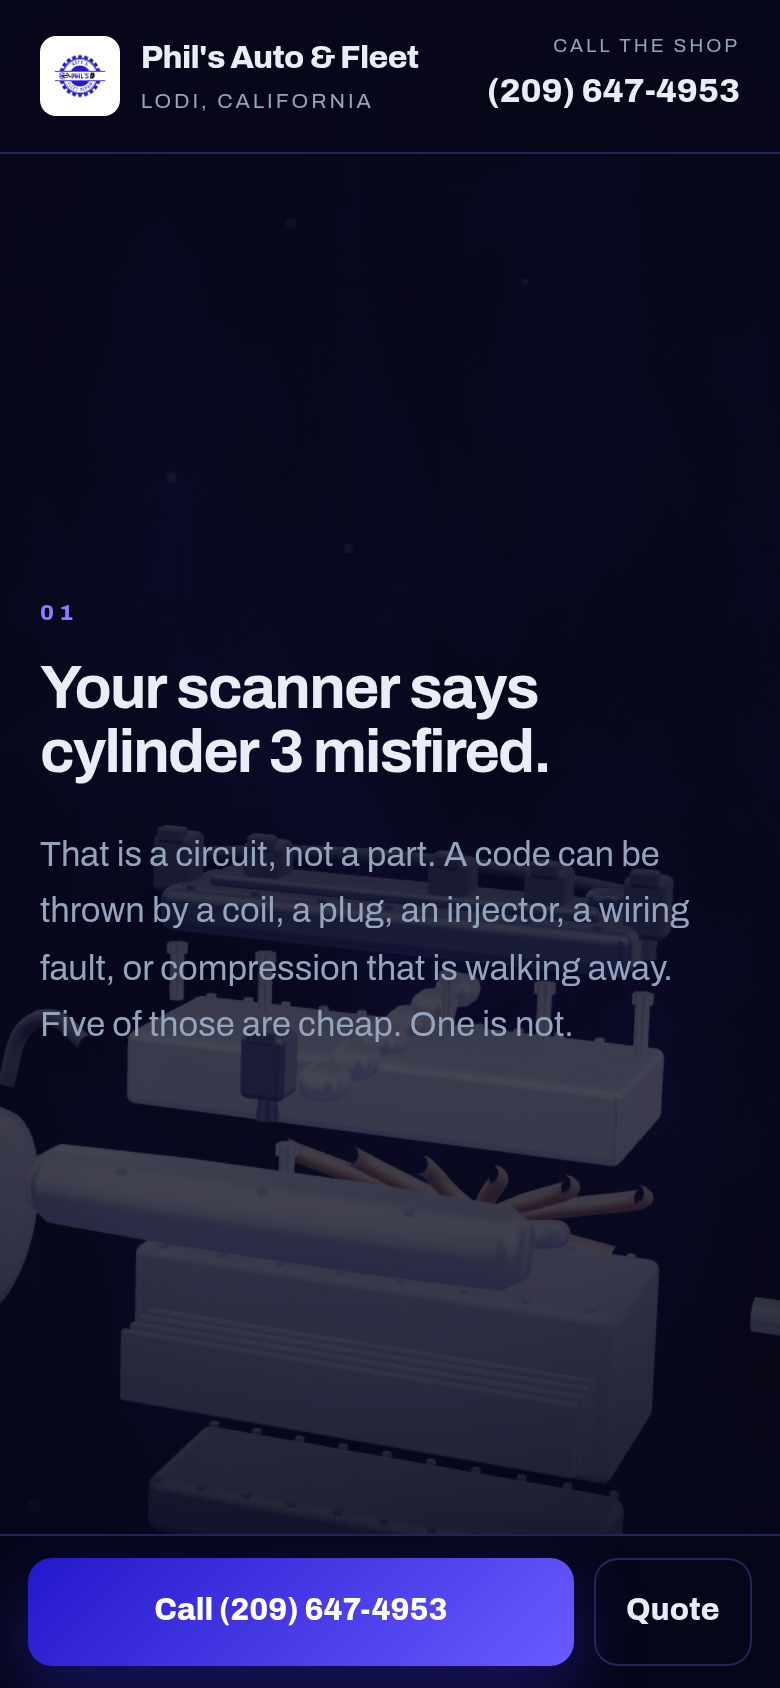
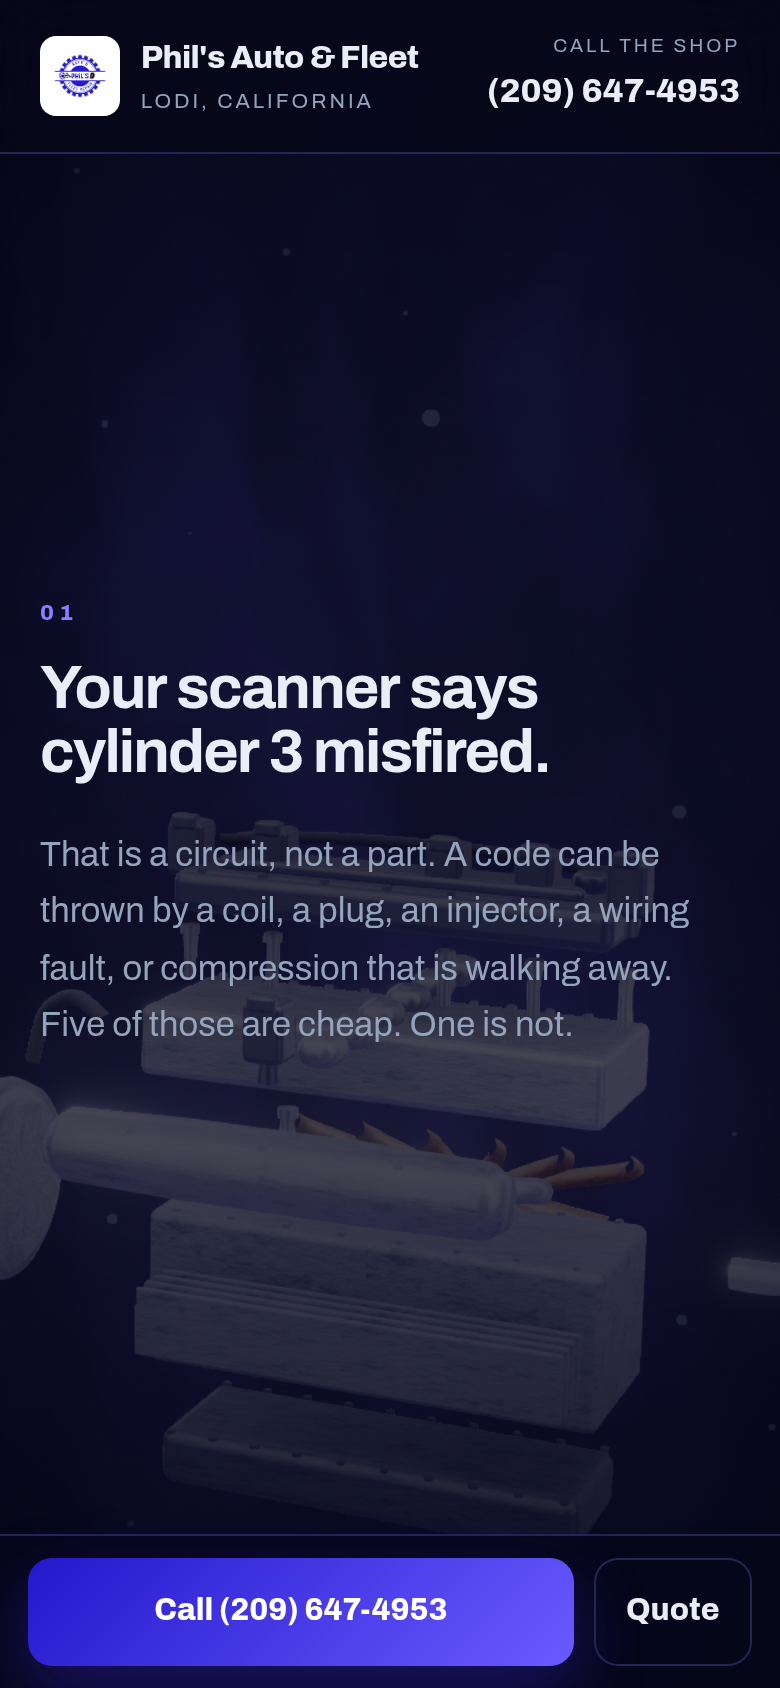
Add the surface and lighting work that was actually missing
The geometry was fixed last round; what still made it read as CG was that
every surface was mathematically perfect and nothing darkened where two
parts met. Three additions, in order of how much each one matters:

- Ambient occlusion (N8AO). The big one. Without it a bolt head sits ON a
  flange rather than IN it, and no part feels connected to any other. It is
  the single effect that makes geometry read as solid — more than polygon
  count, more than texture.
- A normal map, derived at load time with a Sobel pass over a generated
  height field. Casting grain and fine machining marks, so a face between
  two chamfers stops reflecting the environment as one clean sheet.
- A grime map. Oil film and deposits weighted to the low end, so most of the
  surface stays clean and the dirt reads as history rather than as a dirty
  texture. A spotless casting is a render; a shop engine has a past.

Plus clearcoat on painted parts, SMAA so the chamfers stop stair-stepping,
bloom keyed high enough that only real highlights blow, and ACES rather than
AgX after AgX lifted the blacks and turned the whole frame milky.

None of this is free — the scene chunk went from 316 KB to 470 KB gzipped —
but all of it is behind the tier gate, so the cost falls only on a device
that opted into WebGL in the first place. The path a real visitor takes is
unchanged: 1.9 KB critical, mobile Lighthouse 100/100/100/100, LCP 1.4s,
CLS 0.

Claude-Session: https://claude.ai/code/session_013nwrNSzsjaGSfBchDuUbs8

diff --git a/sites/phils-auto/src/scene/parts.js b/sites/phils-auto/src/scene/parts.js
@@ -99,6 +99,131 @@ export function mergeAll(geometries) {
   return out;
 }
 
+/* ------------------------------------------------------------------ *
+ * Generated surface maps.
+ *
+ * These are the difference between "a 3D shape" and "a thing made of
+ * metal", and their absence is the single biggest reason code-built
+ * geometry looks synthetic. A real asset pipeline ships authored albedo,
+ * normal, roughness and AO maps at 2K each; there is no artist and no
+ * download budget here, so the height field is generated and the normal
+ * map derived from it with a Sobel pass at load time.
+ * ------------------------------------------------------------------ */
+
+/** Shared value-noise height field: casting grain + machining lines. */
+function heightField(size, opts) {
+  const { lines = 0, lineFreq = 90, grain = 1 } = opts ?? {};
+  const rand = (x, y, s) => {
+    const n = Math.sin(x * 127.1 + y * 311.7 + s * 74.7) * 43758.5453;
+    return n - Math.floor(n);
+  };
+  const smooth = (x, y, freq, seed) => {
+    const fx = (x / size) * freq, fy = (y / size) * freq;
+    const ix = Math.floor(fx), iy = Math.floor(fy);
+    const tx = fx - ix, ty = fy - iy;
+    const sx = tx * tx * (3 - 2 * tx), sy = ty * ty * (3 - 2 * ty);
+    const a = rand(ix, iy, seed), b = rand(ix + 1, iy, seed);
+    const c = rand(ix, iy + 1, seed), d = rand(ix + 1, iy + 1, seed);
+    const top = a + (b - a) * sx;
+    return top + ((c + (d - c) * sx) - top) * sy;
+  };
+
+  const h = new Float32Array(size * size);
+  for (let y = 0; y < size; y++) {
+    for (let x = 0; x < size; x++) {
+      let v =
+        smooth(x, y, 96, 1) * 0.3 +
+        smooth(x, y, 26, 2) * 0.42 +
+        smooth(x, y, 7, 3) * 0.28;
+      v *= grain;
+      // Fine concentric machining marks, the giveaway that a face was cut.
+      if (lines) v += Math.sin((x / size) * lineFreq * Math.PI * 2) * 0.5 * lines;
+      h[y * size + x] = v;
+    }
+  }
+  return h;
+}
+
+function toTexture(canvas, repeat) {
+  const tex = new THREE.CanvasTexture(canvas);
+  tex.wrapS = tex.wrapT = THREE.RepeatWrapping;
+  tex.repeat.set(repeat, repeat);
+  tex.anisotropy = 4;
+  return tex;
+}
+
+/**
+ * Normal map, derived from the height field with a Sobel operator.
+ *
+ * Without this every face between two chamfers is geometrically perfect and
+ * reflects the environment as one clean sheet, which is exactly what reads as
+ * "computer graphics" rather than "cast aluminium".
+ */
+let normalTexture = null;
+export function castNormal() {
+  if (normalTexture) return normalTexture;
+  const size = 256, strength = 2.6;
+  const h = heightField(size, { lines: 0.06, lineFreq: 60 });
+  const at = (x, y) => h[((y + size) % size) * size + ((x + size) % size)];
+
+  const c = document.createElement("canvas");
+  c.width = c.height = size;
+  const ctx = c.getContext("2d");
+  const img = ctx.createImageData(size, size);
+  for (let y = 0; y < size; y++) {
+    for (let x = 0; x < size; x++) {
+      const dx =
+        (at(x - 1, y - 1) + 2 * at(x - 1, y) + at(x - 1, y + 1)) -
+        (at(x + 1, y - 1) + 2 * at(x + 1, y) + at(x + 1, y + 1));
+      const dy =
+        (at(x - 1, y - 1) + 2 * at(x, y - 1) + at(x + 1, y - 1)) -
+        (at(x - 1, y + 1) + 2 * at(x, y + 1) + at(x + 1, y + 1));
+      let nx = dx * strength, ny = dy * strength, nz = 1;
+      const len = Math.hypot(nx, ny, nz);
+      nx /= len; ny /= len; nz /= len;
+      const i = (y * size + x) * 4;
+      img.data[i] = (nx * 0.5 + 0.5) * 255;
+      img.data[i + 1] = (ny * 0.5 + 0.5) * 255;
+      img.data[i + 2] = (nz * 0.5 + 0.5) * 255;
+      img.data[i + 3] = 255;
+    }
+  }
+  ctx.putImageData(img, 0, 0);
+  normalTexture = toTexture(c, 9);
+  return normalTexture;
+}
+
+/**
+ * Grime: oil film, heat staining and worn paint, as a multiply over the base
+ * colour. A spotless casting is a render; a shop engine has a history.
+ */
+let grimeTexture = null;
+export function grime() {
+  if (grimeTexture) return grimeTexture;
+  const size = 256;
+  const h = heightField(size, { grain: 1 });
+  const c = document.createElement("canvas");
+  c.width = c.height = size;
+  const ctx = c.getContext("2d");
+  const img = ctx.createImageData(size, size);
+  for (let i = 0; i < size * size; i++) {
+    const v = h[i];
+    // Blotchy darkening, weighted to the low end so most of the surface is
+    // clean and the dirt reads as deposits rather than as a dirty texture.
+    const dark = Math.pow(Math.max(0, 1 - v * 1.25), 2.2);
+    const g = Math.round(255 * (1 - dark * 0.55));
+    const j = i * 4;
+    img.data[j] = g;
+    img.data[j + 1] = Math.round(g * 0.985);
+    img.data[j + 2] = Math.round(g * 0.95);   // deposits go warm, not grey
+    img.data[j + 3] = 255;
+  }
+  ctx.putImageData(img, 0, 0);
+  grimeTexture = toTexture(c, 2);
+  grimeTexture.colorSpace = THREE.SRGBColorSpace;
+  return grimeTexture;
+}
+
 /**
  * Cast-surface roughness, generated rather than downloaded.
  *

diff --git a/sites/phils-auto/src/scene/Engine.jsx b/sites/phils-auto/src/scene/Engine.jsx
@@ -1,7 +1,7 @@
 import { useMemo, useRef } from "react";
 import { useFrame } from "@react-three/fiber";
 import * as THREE from "three";
-import { roundedBox, lathe, tube, boltRow, ribs, mergeAll, castRoughness } from "./parts.js";
+import { roundedBox, lathe, tube, boltRow, ribs, mergeAll, castRoughness, castNormal, grime } from "./parts.js";
 
 /**
  * A procedural inline-six.
@@ -92,6 +92,7 @@ function buildParts() {
         boltRow(7, [-1.4, 0.16, -0.38], [1.4, 0.16, -0.38]),
       ]),
     pos: [0, 0.8, 0],
+    paint: true,
     mat: { color: "#2f3550", metalness: 0.55, roughness: 0.35 },
     out: [0, 1.25, -0.15],
   });
@@ -109,6 +110,7 @@ function buildParts() {
           new THREE.CylinderGeometry(0.055, 0.075, 0.16, 14).translate(0, -0.26, 0),
         ]),
       pos: [x, 1.16, 0],
+      paint: true,
       mat: { color: "#262c40", metalness: 0.35, roughness: 0.58 },
       out:
         i === FAILED_COIL
@@ -124,6 +126,8 @@ function buildParts() {
           new THREE.CylinderGeometry(0.072, 0.072, 0.07, 6).translate(0, 0.19, 0),
         ]),
       pos: [x, 0.78, 0],
+      smooth: true,
+      clean: true,
       mat: MACHINED,
       out: i === FAILED_COIL ? [0.1, -0.1, 1.55] : [x * 0.22, 0.72, -0.1],
     });
@@ -141,6 +145,7 @@ function buildParts() {
         boltRow(3, [-0.9, 0.2, 0.2], [0.9, 0.2, 0.2], 0.03),
       ]),
     pos: [0, 0.4, 1.02],
+    smooth: true,
     mat: { color: "#8d95ab", metalness: 0.84, roughness: 0.32 },
     out: [0, 0.28, 1.15],
   });
@@ -198,6 +203,8 @@ function buildParts() {
     key: "crank",
     geometry: () => new THREE.CylinderGeometry(0.11, 0.11, 0.6, 20).rotateZ(Math.PI / 2),
     pos: [1.82, -0.35, 0],
+    smooth: true,
+    clean: true,
     mat: MACHINED,
     out: [1.0, 0.05, 0],
   });
@@ -263,16 +270,31 @@ export default function Engine({ progress, coilTarget }) {
 
   const built = useMemo(() => {
     const rough = castRoughness();
-    return buildParts().map((p) => ({
-      ...p,
-      geo: p.geometry(),
-      material: new THREE.MeshStandardMaterial({
-        ...p.mat,
-        roughnessMap: p.mat.metalness > 0.4 ? rough : null,
-        envMapIntensity: 1.6,
-        userData: { base: new THREE.Color(p.mat.color) },
-      }),
-    }));
+    const normal = castNormal();
+    const dirt = grime();
+    return buildParts().map((p) => {
+      const metal = p.mat.metalness > 0.4;
+      // Painted and machined faces get a clearcoat; raw castings do not.
+      const material = p.paint
+        ? new THREE.MeshPhysicalMaterial({
+            ...p.mat,
+            clearcoat: 0.85,
+            clearcoatRoughness: 0.22,
+            normalMap: normal,
+            normalScale: new THREE.Vector2(0.1, 0.1),
+            roughnessMap: rough,
+          })
+        : new THREE.MeshStandardMaterial({
+            ...p.mat,
+            roughnessMap: metal ? rough : null,
+            normalMap: normal,
+            normalScale: new THREE.Vector2(p.smooth ? 0.12 : 0.34, p.smooth ? 0.12 : 0.34),
+            map: p.clean ? null : dirt,
+          });
+      material.envMapIntensity = 1.6;
+      material.userData = { base: new THREE.Color(p.mat.color) };
+      return { ...p, geo: p.geometry(), material };
+    });
   }, []);
 
   const tmp = useMemo(() => new THREE.Color(), []);
@@ -334,6 +356,7 @@ export default function Engine({ progress, coilTarget }) {
       } else {
         tmp.copy(spec.material.userData.base).lerp(steel, isolate * 0.85);
         mat.color.copy(tmp);
+        if (mat.map) mat.map.repeat.setScalar(2);
         mat.emissiveIntensity = 0;
         mat.roughness = THREE.MathUtils.lerp(spec.mat.roughness, 0.88, isolate);
         mat.metalness = THREE.MathUtils.lerp(spec.mat.metalness, 0.28, isolate);

diff --git a/sites/phils-auto/src/scene/Post.jsx b/sites/phils-auto/src/scene/Post.jsx
@@ -1,0 +1,83 @@
+import { useEffect, useMemo } from "react";
+import { useFrame, useThree } from "@react-three/fiber";
+import * as THREE from "three";
+import {
+  EffectComposer,
+  RenderPass,
+  EffectPass,
+  BloomEffect,
+  VignetteEffect,
+  NoiseEffect,
+  SMAAEffect,
+  ToneMappingEffect,
+  ToneMappingMode,
+  BlendFunction,
+  KernelSize,
+} from "postprocessing";
+import { N8AOPostPass } from "n8ao";
+
+/**
+ * The post chain, and the reason the scene stops looking like plastic.
+ *
+ * Ambient occlusion is the big one. Without it nothing darkens where two
+ * surfaces meet, so a bolt head sits *on* a flange instead of *in* it and
+ * every part floats free of every other. It is the single effect that makes
+ * geometry read as solid — more than polygon count, more than texture.
+ *
+ * Bloom on top, because a highlight that cannot blow out never reads as
+ * light hitting metal; and SMAA, because stair-stepped chamfers undo all the
+ * work the chamfers were for.
+ *
+ * All of it is tier-3 only. It is genuinely expensive and it is not worth a
+ * dropped frame on a mid-range phone.
+ */
+export default function Post({ enabled }) {
+  const { gl, scene, camera, size } = useThree();
+
+  const composer = useMemo(() => {
+    if (!enabled) return null;
+
+    const c = new EffectComposer(gl, {
+      frameBufferType: THREE.HalfFloatType,
+      multisampling: 0,
+    });
+    c.addPass(new RenderPass(scene, camera));
+
+    const ao = new N8AOPostPass(scene, camera, size.width, size.height);
+    ao.configuration.aoRadius = 0.85;
+    ao.configuration.distanceFalloff = 0.9;
+    ao.configuration.intensity = 4.2;
+    ao.configuration.color = new THREE.Color(0x05050f);
+    ao.configuration.halfRes = true;      // AO at half resolution is free-ish
+    ao.setQualityMode("Low");
+    c.addPass(ao);
+
+    const bloom = new BloomEffect({
+      intensity: 0.42,
+      luminanceThreshold: 0.88,
+      luminanceSmoothing: 0.28,
+      kernelSize: KernelSize.MEDIUM,
+      mipmapBlur: true,
+    });
+    const noise = new NoiseEffect({ premultiply: true, blendFunction: BlendFunction.OVERLAY });
+    noise.blendMode.opacity.value = 0.06;
+    const tone = new ToneMappingEffect({ mode: ToneMappingMode.ACES_FILMIC });
+
+    c.addPass(new EffectPass(camera, bloom, noise, tone, new SMAAEffect()));
+    return c;
+  }, [enabled, gl, scene, camera]);
+
+  useEffect(() => {
+    if (!composer) return;
+    composer.setSize(size.width, size.height);
+  }, [composer, size]);
+
+  useEffect(() => () => composer?.dispose(), [composer]);
+
+  // priority 1 takes over rendering from R3F's default render loop.
+  useFrame((_, delta) => {
+    if (composer) composer.render(delta);
+  }, 1);
+
+  return null;
+}

diff --git a/sites/phils-auto/src/scene/Hero3D.jsx b/sites/phils-auto/src/scene/Hero3D.jsx
@@ -2,6 +2,7 @@ import { useEffect, useMemo, useRef, useState } from "react";
 import { Canvas, useFrame, useThree } from "@react-three/fiber";
 import * as THREE from "three";
 import Engine, { FAILED_COIL } from "./Engine.jsx";
+import Post from "./Post.jsx";
 
 /* ------------------------------------------------------------------ *
  * Layer 1 (far): a domain-warped noise plane. Near-black indigo, very
@@ -40,10 +41,10 @@ void main(){
   vec2 q = vec2(fbm(uv * 1.6 + t), fbm(uv * 1.6 + vec2(3.2, 1.7) - t));
   float f = fbm(uv * 2.1 + q * 1.4);
 
-  vec3 deep  = vec3(0.031, 0.031, 0.110);
-  vec3 lift  = vec3(0.145, 0.120, 0.560);
-  vec3 col = mix(deep, lift, smoothstep(-0.35, 0.70, f));
-  col *= 1.0 - 0.42 * dot(uv, uv);              // fall off at the edges
+  vec3 deep  = vec3(0.022, 0.022, 0.075);
+  vec3 lift  = vec3(0.075, 0.062, 0.300);
+  vec3 col = mix(deep, lift, smoothstep(-0.30, 0.72, f));
+  col *= 1.0 - 0.55 * dot(uv, uv);              // fall off at the edges
   gl_FragColor = vec4(col, 1.0);
 }`;
 
@@ -185,7 +186,7 @@ function ProceduralEnvironment() {
         }`,
     });
     env.add(new THREE.Mesh(geo, mat));
-    const target = pmrem.fromScene(env, 0.04);
+    const target = pmrem.fromScene(env, 0.018);
     scene.environment = target.texture;
     return () => {
       target.dispose();
@@ -316,7 +317,7 @@ export default function Hero3D({ tier = 3 }) {
       gl={{ antialias: tier >= 3, powerPreference: "high-performance", alpha: false }}
       camera={{ position: [0, 0.4, 7.4], fov: 38 }}
       onCreated={({ gl }) => {
-        gl.toneMapping = THREE.ACESFilmicToneMapping;
+        gl.toneMapping = tier >= 3 ? THREE.NoToneMapping : THREE.ACESFilmicToneMapping;
         gl.toneMappingExposure = 1.5;
         if (tier >= 3) {
           gl.shadowMap.enabled = true;
@@ -352,6 +353,7 @@ export default function Hero3D({ tier = 3 }) {
       <directionalLight position={[-6, 2, -4]} intensity={2.6} color="#6a5bff" />
       <directionalLight position={[-2, 4, -6]} intensity={3.4} color="#dfe4ff" />
 
+      <Post enabled={tier >= 3} />
       <CameraRig progress={progress} coilTarget={coilTarget} />
       <Engine progress={progress} coilTarget={coilTarget} />
       <CoilGlow progress={progress} />
